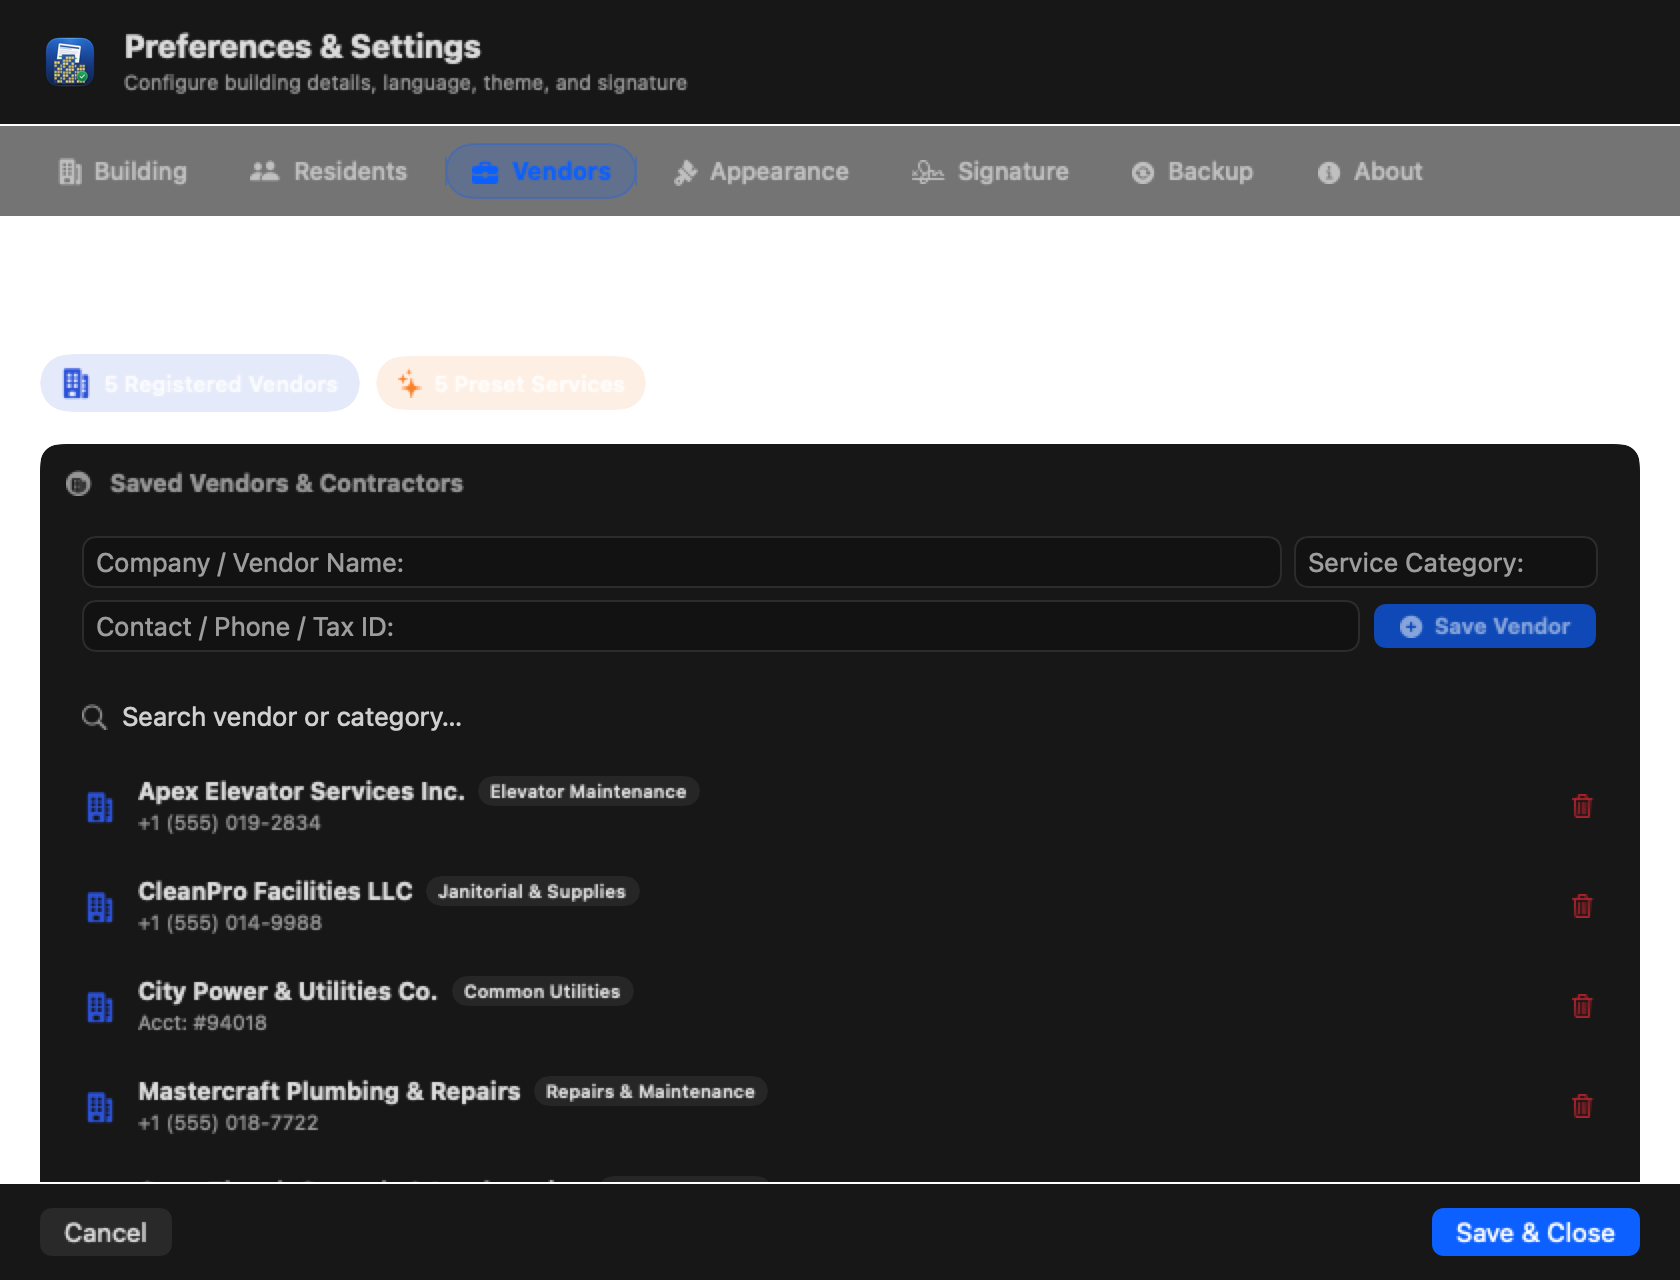
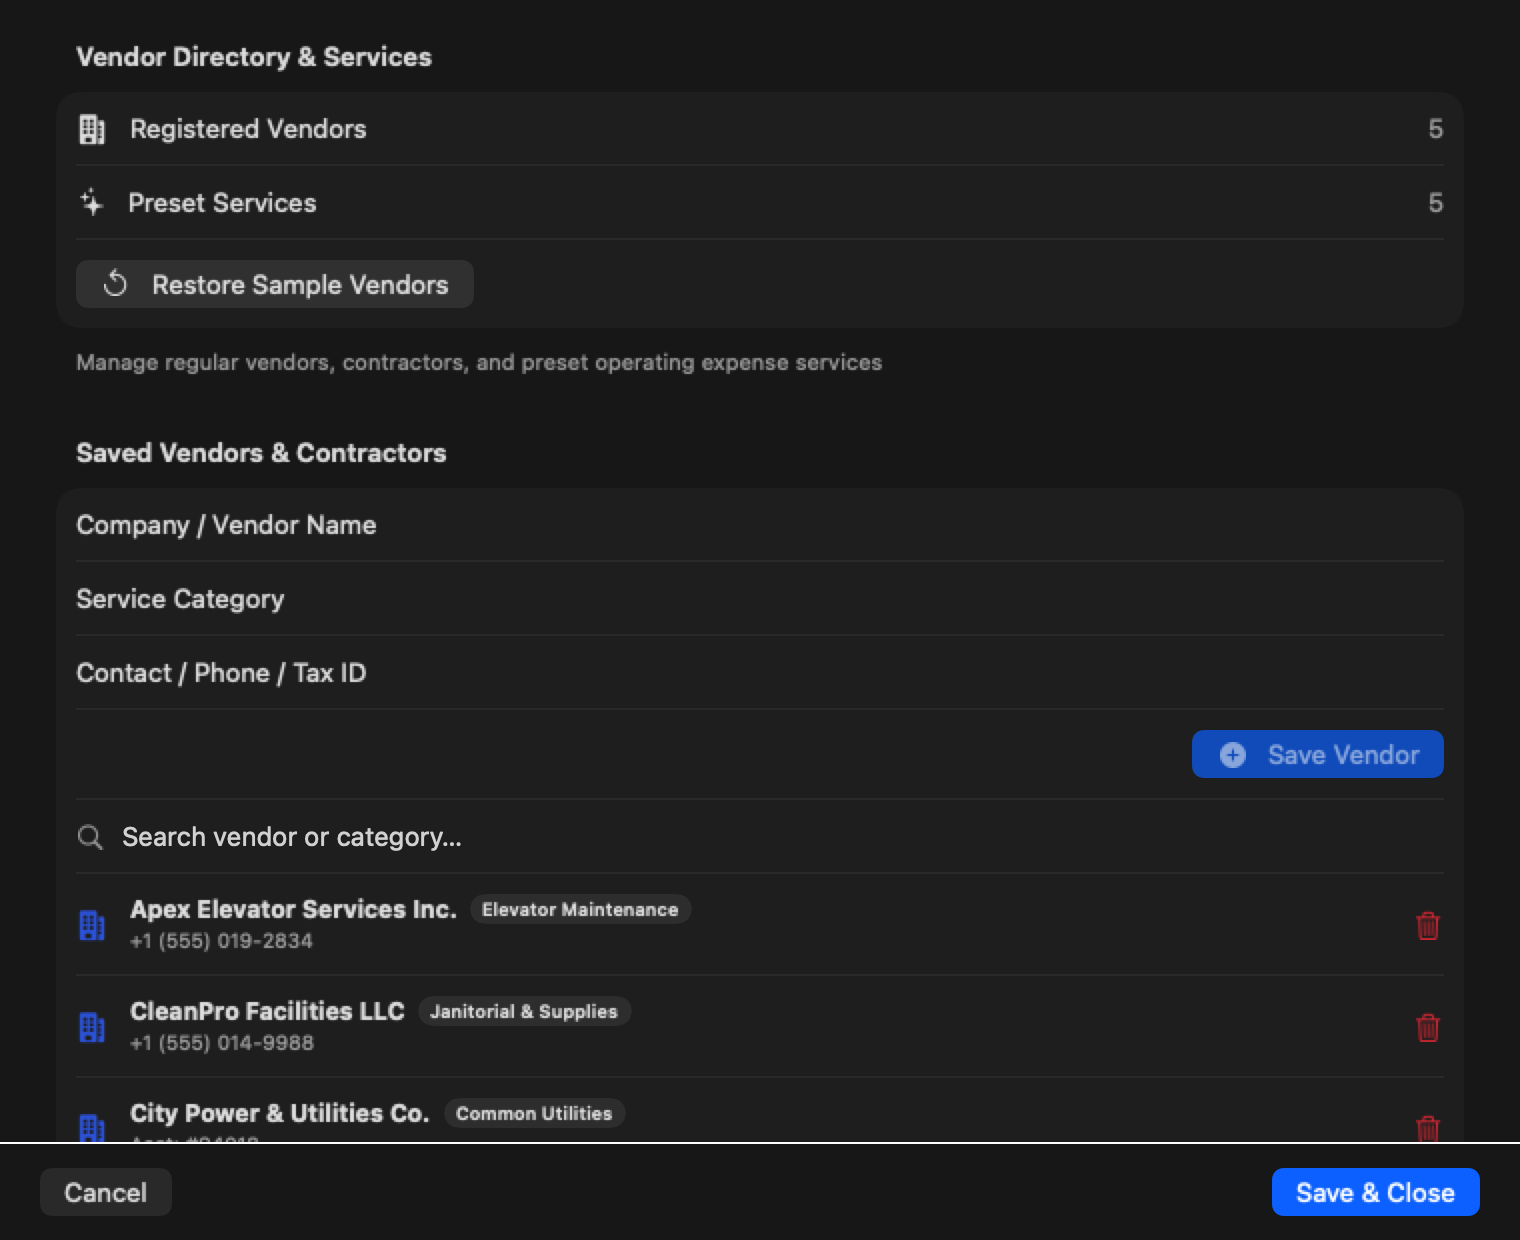
modify docs @ settings: 'changelog and readme for arhivar-standard settings, update section, launch check and reset' - [docs] modify docs @ screenshots: 'regenerate settings building, vendors and appearance screenshots' - [docs] modify docs @ agents: 'close the settings alignment plan' - [docs]

diff --git a/.agents/context/settings_arhivar_alignment_plan.md b/.agents/context/settings_arhivar_alignment_plan.md
@@ -1,6 +1,6 @@
 # Settings Window: Arhivar Standard Alignment Plan
 
-- **Status:** Approved 2026-10-20 with D1a, D2a, D3a. Phases 0–6 done; phase 7 (docs and screenshots) next.
+- **Status:** Approved 2026-10-20 with D1a, D2a, D3a. Completed 2026-10-20 (phases 0–7).
 - **Date:** 2026-10-20
 - **Scope:** `aptreceipt/PreferencesViewController.swift` (`SettingsView`, `SettingsViewModel`, `SettingsTab`), `SettingsWindowManager` in `AppDelegate.swift`, `GitHubUpdateChecker.swift`, `L10n.swift`, `Localizable.xcstrings`.
 - **Reference:** `arhivar-mac-universal/Sources/Arhivar/Views/SettingsView.swift` and the already-aligned `ilef_radio_swift` settings (commit `2833101`).
@@ -101,4 +101,5 @@ Each phase is one commit. It must pass `./run_all_tests_mac.command`, and before
 - **Phase 4:** Building is a grouped `Form` with five sections: *Building Profile* (logo preview, name, manager, logo state, the four live stat chips, upload/remove logo), *Building Information* (name, manager, flats as labelled fields plus the eight quick flat-count chips), *Financial* (dues with the currency symbol, next receipt number, currency picker shared with Appearance, still applied at once), *Late Fee* (enable toggle with its own label `lateFeeEnableToggle`; when on, country profiles as buttons in a 2×2 grid so re-selecting a profile still re-applies its defaults, rate field with the profile's quick-rate chips, due day with prefix/suffix, grace period, footnote with reset; the legal notice moved to the footer) and *Starter Scenarios* (one row per scenario with description and Apply, plus the feedback line). Rows stay hidden while late fees are off, as before. Catalog labels ending in ":" are shown without the colon (display only).
 - **Phase 5:** Residents is a grouped `Form`. *Residents Directory* shows total, registered and (when any) vacant counts as rows, plus Fill Sample Residents and Clear All; the description moved to the footer. The second section holds the search field, the empty state and one row per flat (flat badge, name, phone, assigned state, per-flat clear) without the old card chrome. Fields inside a `Form` use a prompt instead of a title, otherwise macOS lays them out as "label … value".
 - **Phase 6:** Vendors is a grouped `Form` with three sections. The first, under the vendors title, shows the vendor and service counts, Load Sample Vendors and its feedback, with the subtitle in the footer. *Vendors* has the labelled add fields (name, category, contact), a Save button that stays disabled without a name, search, the empty state, and rows with category, contact and delete. *Services* has the add fields (name, suggested vendor, description), Save, the empty state, and rows with icon, suggested vendor, description and delete. Every tab is now a `Form`, so the transitional `usesGroupedForm` flag and the old `ScrollView` wrapper are gone.
+- **Phase 7:** CHANGELOG (Unreleased: Added/Changed) and README (settings window, updating) describe the new settings. `docs/screenshots/03_settings_view.png`, `09_settings_vendors.png` and `10_settings_appearance.png` were regenerated with the app's own `--generate-screenshots` (run from a scratch folder; only these three files were copied). Open follow-ups that need a user decision: the "odd but kept" behaviors listed above.
 

diff --git a/README.md b/README.md
@@ -15,7 +15,7 @@ A modern, native macOS application to effortlessly generate, manage, and export 
 - **Interactive License Viewer:** Direct read-only inspection of the GNU General Public License v3.0 from Preferences and About windows, highlighting publisher **Babadogan Tech and Edu**.
 - **Real-Time Live Receipt Preview:** Live interactive preview card dynamically updates as you type.
 - **Automatic Theme Support:** Light, Dark, and Automatic System appearance modes.
-- **Dedicated Settings Window:** Accessible from the macOS Menu Bar (`Cmd+,` / `Preferences`) or the compact gear icon on the main screen, with tabbed sections for Building Details, Residents Directory, Vendors & Services, Appearance & Language, Signature, and About.
+- **Dedicated Settings Window:** Accessible from the macOS Menu Bar (`Cmd+,` / `Preferences`) or the compact gear icon on the main screen. Toolbar tabs for Building, Residents, Vendors, Appearance, Signature, Backup and About, each laid out as grouped native sections. Edits on all tabs form one draft that **Save & Close** validates and commits and **Cancel** discards. Settings → About also offers **Reset Settings…**, which restores language, theme, currency, late-fee configuration and the launch update check while keeping all building data, residents, vendors, receipts, logo and signature.
 - **Residents Directory:** Save flat numbers and resident names for one-click auto-fill.
 - **Digital Signature:** Import authorized signature images (PNG/JPEG) to print directly onto exported receipts.
 - **Auto-Incrementing Sequence Numbers:** Receipt numbers increment automatically after generation.
@@ -123,7 +123,7 @@ shasum -a 256 -c SHA256SUMS.txt
 
 ### Updating
 
-AptReceipt checks GitHub Releases for new versions (**Check for Updates…** in the app menu, Settings → About, or the About window). When an update is available, **Download Update** saves the release DMG to your **Downloads** folder, verifies its SHA-256 checksum and Ed25519 signature, and opens it (if macOS blocks opening it, the app explains how to allow it). Quit AptReceipt, drag the new version onto **Applications** and choose **Replace**, then open it again (the Gatekeeper note above applies to each new version). If a release has no DMG attached, the release page opens in your browser instead.
+AptReceipt checks GitHub Releases for new versions (**Check for Updates…** in the app menu, Settings → About, or the About window). Settings → About shows the installed version, the result of the last check and, if you turn it on, checks at every launch; this option is off by default, so the app contacts GitHub only when you ask it to. When an update is available, **Download Update** saves the release DMG to your **Downloads** folder, verifies its SHA-256 checksum and Ed25519 signature, and opens it (if macOS blocks opening it, the app explains how to allow it). Quit AptReceipt, drag the new version onto **Applications** and choose **Replace**, then open it again (the Gatekeeper note above applies to each new version). If a release has no DMG attached, the release page opens in your browser instead.
 
 ---
 

diff --git a/CHANGELOG.md b/CHANGELOG.md
@@ -4,7 +4,13 @@ All notable changes to this project will be documented in this file.
 
 ## [Unreleased]
 
+### Added
+- **App update section in Settings → About**: installed version and build, last check result (with the failure kind), last-checked time, **Check Now** with the result shown inline, and a **Download** button when a newer release exists.
+- **Check for updates at launch** (Settings → About): off by default; when on, a newer release is announced with the usual update alert.
+- **Reset Settings…** (Settings → About): asks for confirmation, then restores language, theme, currency, late-fee configuration and the launch update check. Building details, residents, phones, vendors, services, receipts, logo, signature and the receipt number are kept.
+
 ### Changed
+- **Settings window** follows the Arhivar standard: toolbar tabs (560 pt wide; Residents and Vendors 760 pt) and grouped native sections with headers on every tab. All existing settings, actions and validations are unchanged, and edits on all tabs still form one draft committed by **Save & Close** or discarded by **Cancel**. The language and currency cards became pickers with the same immediate behavior; the theme cards became a segmented control.
 - **Update check errors**: A failed update check now explains what went wrong instead of always saying "check your internet connection": no internet connection, timeout, GitHub unreachable, no public release yet (HTTP 404), rate limit reached, GitHub server error, or an unreadable response. Messages are translated into English, Turkish and Romanian.
 - **About window**: Redesigned to match Arhivar: large icon, name, version and build read from the app bundle (previously hardcoded as 3.3.0), tagline, publisher and license credit, glass link buttons (babadogan.net, GitHub, Check for Updates, License) and a copyright line with the current year. The window now sizes itself to its content and hides its title bar. The Settings > About tab uses the same layout and keeps its software update card.
 - **License viewer**: Shows the full, unmodified GPL-3.0 text from the repository `LICENSE` instead of a shortened, edited excerpt. It stays read-only, and a test keeps it in sync with `LICENSE`.
